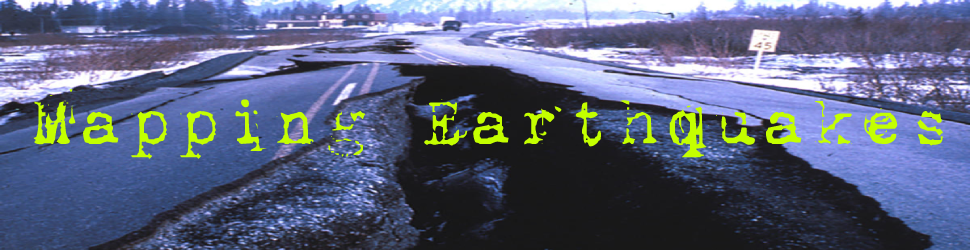
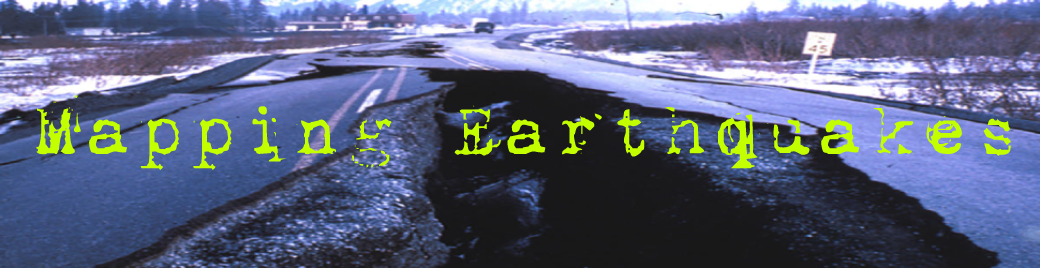
adding additional images

diff --git a/README.md b/README.md
@@ -1,3 +1,28 @@
-<img src='images\Mapping_Earthquakes_banner.png'>
+<img src='images\Mapping_Earthquakes_banner (1).png'>
 
 # Overview of the Project
+
+
+## Resources used:
+
+# Results
+<img src="images\Leaflet_Basic_Map.png">
+
+<img src="images\layers_no_hover.png">
+
+<img src="images\layers_options.png">
+
+<img src="images\legend.png">
+
+<img src="images\streets.png">
+
+<img src="images\major_eq_wth_techt.png">
+
+<img src="images\no_techtonic.png">
+
+<img src="images\satellite.png">
+
+<img src="images\dark.png">
+
+
+# Summary
